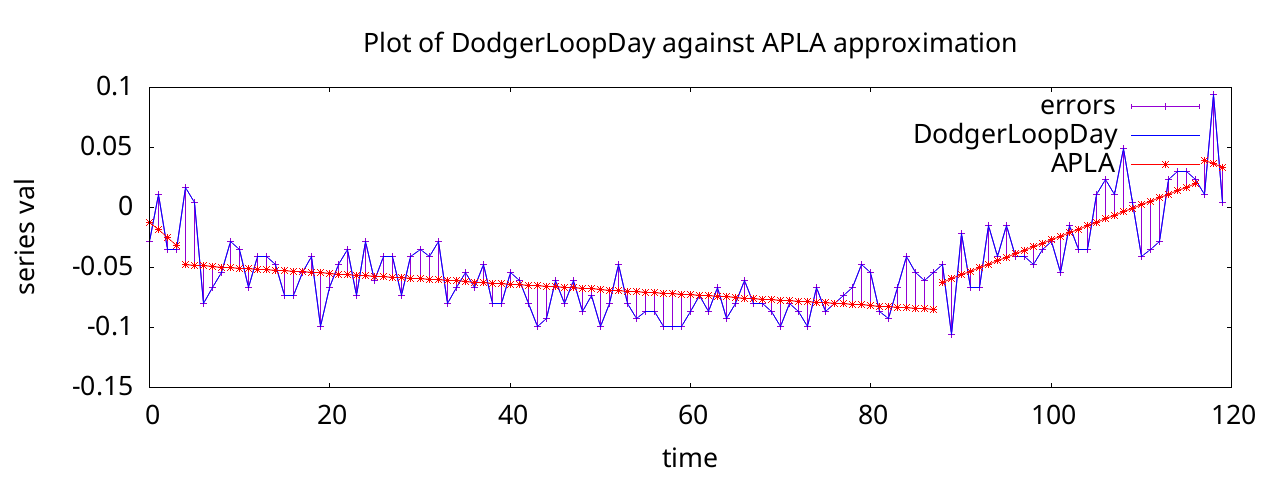
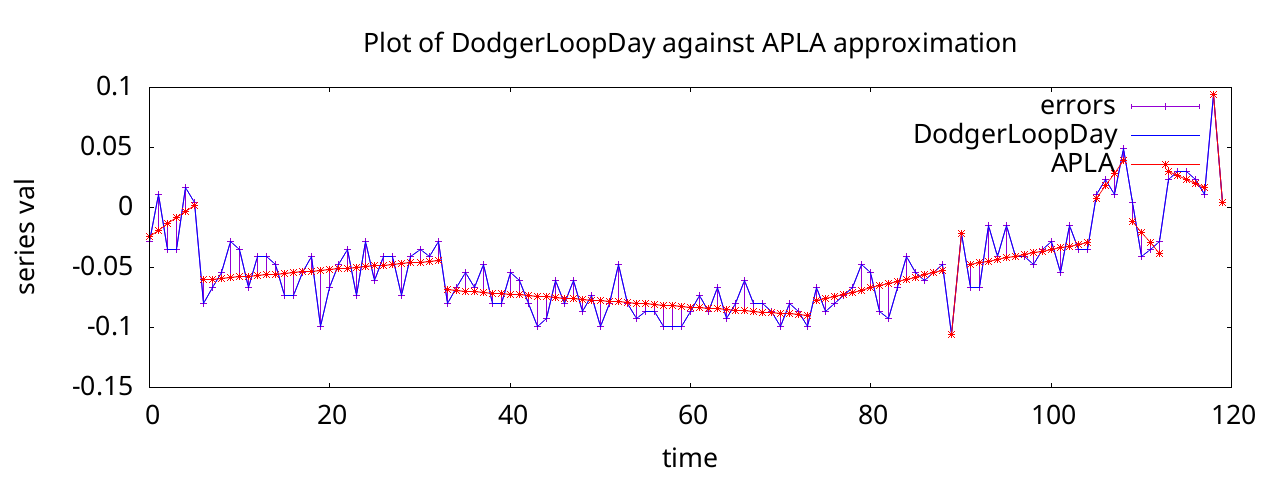
added the exact Dynamic Programming algorithm for comparison with my improvements

diff --git a/src/main.cpp b/src/main.cpp
@@ -3,16 +3,17 @@
 #include <vector>
 #include <algorithm>
 
-#include "double_window.h"
 #include "ucr_parsing.h"
-#include "paa.h"
-#include "pla.h"
-#include "dac_curve_fitting.h"
 #include "z_norm.h"
 #include "mse.h"
 
-#include "plotting/series_plotting.h"
+#include "paa.h"
+#include "pla.h"
+#include "double_window.h"
+#include "dac_curve_fitting.h"
+#include "exact_dp.h"
 
+#include "plotting/series_plotting.h"
 #include "plotting/plot_dimreduct_paa.cpp"
 #include "plotting/plot_dimreduct_pla.cpp"
 
@@ -40,14 +41,6 @@ int main()
   z_norm::z_normalise(dataset);
 
 
-  // plot_paa_mse(datasets, ucr_datasets_loc, 0, 10, 100);
-  // plot_pla_mse(datasets, ucr_datasets_loc, 0, 10, 100);
-
-  // plot_paa_subseq_series_comparison(dataset, datasets[di], 20, 0, 100);
-  // plot_pla_subseq_series_comparison(dataset, datasets[di], 20, 0, 100);
-  // plot_apaa_subseq_series_comparison(dataset, datasets[di], 0.00005, 0, 100);
-  // plot_apla_subseq_series_comparison(dataset, datasets[100], 0.00005, 0, 100);
-
   auto paa_f = [](const vector<double>& s, unsigned int num_params){ return paa::paa_to_seq(paa::paa(s, num_params), (s.size() / num_params) + (s.size() % num_params != 0)); };
   auto pla_f = [](const vector<double>& s, unsigned int num_params){ return pla::pla_to_seq(pla::pla(s, num_params), (2*s.size() / num_params) + (2*s.size() % num_params != 0)); };
 
@@ -57,72 +50,12 @@ int main()
   auto d_w_apla_f = [](const vector<double>& s, unsigned int num_params){ return pla::apla_to_seq( d_w::simple_pla(s, num_params, 5, 5)); };
   auto d_w_proj_apla_f = [](const vector<double>& s, unsigned int num_params){ return pla::apla_to_seq( d_w::y_proj_pla(s, num_params, 5, 5)); };
 
-  for (int i=3; i<=10; i++) {
-    vector<double> x;
-    for (int j=4; j<=4000; j+=100) x.push_back(j);
+  auto exact_apaa_f = [](const vector<double>& s, unsigned int num_params){ return paa::apca_to_seq( exact_dp::exact_paa(s, num_params) ); }; 
+  auto exact_apla_f = [](const vector<double>& s, unsigned int num_params){ return pla::apla_to_seq( exact_dp::exact_pla(s, num_params) ); }; 
 
-    vector<Line> lines;
-    vector<vector<double>> datasets_mse(6);
-    vector<double> dataset_i = parse_ucr_dataset(datasets[i], ucr_datasets_loc,  DatasetType::TRAIN);
-    for (int j=4; j<=4000; j+=100) {
-      datasets_mse[0].push_back( mse::maxdev_between_seq(dataset_i, paa_f(dataset_i, j)) );
-      datasets_mse[1].push_back( mse::maxdev_between_seq(dataset_i, pla_f(dataset_i, j)) );
-      datasets_mse[2].push_back( mse::maxdev_between_seq(dataset_i, d_w_apca_f(dataset_i, j)) );
-      datasets_mse[3].push_back( mse::maxdev_between_seq(dataset_i, d_w_proj_apca_f(dataset_i, j)) );
-      datasets_mse[4].push_back( mse::maxdev_between_seq(dataset_i, d_w_apla_f(dataset_i, j)) );
-      datasets_mse[5].push_back( mse::maxdev_between_seq(dataset_i, d_w_proj_apla_f(dataset_i, j)) );
-    }
-    lines.push_back( { x, datasets_mse[0], "paa" } );
-    lines.push_back( { x, datasets_mse[1], "pla" } );
-    lines.push_back( { x, datasets_mse[2], "sliding window paa" } );
-    lines.push_back( { x, datasets_mse[3], "sliding window intervals paa" } );
-    lines.push_back( { x, datasets_mse[4], "sliding window pla" } );
-    lines.push_back( { x, datasets_mse[5], "sliding window intervals pla" } );
-    PlotLabels pl = {"comparison of Maximum Deviation for DRT on dataset" + std::to_string(i), "number of parameters", "MaxDev error"};
-    plot_lines( lines, pl);
-  }
-
-  /*
-  dataset.resize(120);
-  plot_paa_subseq(dataset, datasets[di], 30, 0, 119);
-  plot_pla_subseq(dataset, datasets[di], 30, 0, 119);
-  std::cout << "PAA MSE: " 
-	    << mse::mse_between_seq(dataset,
-		paa::paa_to_seq(paa::paa(dataset, 30),4))
-	    << std::endl;
-  std::cout << "PLA MSE: " 
-	    << mse::mse_between_seq(dataset,
-		pla::pla_to_seq(pla::chunk_regression(dataset, 30),8))
-	    << std::endl;
-  */
-
-  /*
-  plot_any_apaa_subseq( dataset, datasets[di], [](const vector<double>& s){ return d_w::y_proj_paa(s, 30, 2,2); }, 0, 119);
-  plot_any_apla_subseq( dataset, datasets[di], [](const vector<double>& s){ return d_w::y_proj_pla(s, 30, 2,2); }, 0, 119);
-  std::cout << "APCA Y PROJECTION MSE: " 
-	    << mse::mse_between_seq(dataset,
-		paa::apca_to_seq(d_w::y_proj_paa(dataset, 30, 2, 2)))
-	    << std::endl;
-  std::cout << "APLA Y PROJECTION MSE: " 
-	    << mse::mse_between_seq(dataset,
-		pla::apla_to_seq(d_w::y_proj_pla(dataset, 30, 2, 2)))
-	    << std::endl;
-
-  */
-
-  /*
-  plot_any_apaa_subseq( dataset, datasets[di] + " for mean of window", [](const vector<double>& s){ return d_w::simple_paa(s, 30, 2,2); }, 0, 119);
-  plot_any_apla_subseq( dataset, datasets[di] + " for mean of window", [](const vector<double>& s){ return d_w::simple_pla(s, 30, 2,2); }, 0, 119);
-  std::cout << "APCA MEAN MSE: " 
-	    << mse::mse_between_seq(dataset,
-		paa::apca_to_seq(d_w::simple_paa(dataset, 30, 2, 2)))
-	    << std::endl;
-  std::cout << "APLA MEAN MSE: " 
-	    << mse::mse_between_seq(dataset,
-		pla::apla_to_seq(d_w::simple_pla(dataset, 30, 2, 2)))
-	    << std::endl;
-  */
-
-
+  //auto apaa = exact_dp::exact_paa(dataset, 30);
+  // plot_any_apaa_subseq( dataset, datasets[di], [](const vector<double>& s){ return exact_dp::exact_paa(s, 30); }, 0, 119);
+  plot_any_apla_subseq( dataset, datasets[di], [](const vector<double>& s){ return exact_dp::exact_pla(s, 30); }, 0, 119);
+  
   return 0;
 }

diff --git a/lib/dimension_reductions/exact_dp.cpp b/lib/dimension_reductions/exact_dp.cpp
@@ -1,0 +1,141 @@
+#include "exact_dp.h"
+
+#include <numeric>
+
+using std::vector;
+using std::tuple;
+
+
+inline double quick_mean(const double *const f1, const double *const f2)
+{
+  double a = 0;
+  for (int i=0; i<=f2-f1; i++) {
+    a += *(f1+i);
+  }
+  return a / double (f2 - f1 + 1);
+}
+inline double quick_se_with_mean( const double *const f1, const double *const f2, double mean)
+{
+  double se = 0;
+  for (int i=0; i<=f2-f1; i++) {
+    se += (*(f1+i) - mean) * (*(f1+i) - mean);
+  }
+  return se;
+}
+
+vector< tuple< double, unsigned int>> exact_dp::exact_paa( const vector<double>& s, unsigned int num_params)
+{
+  int num_segments = num_params/2;
+  vector< vector< double>> eps( s.size(), vector<double>(num_segments+1,-1.0) );
+  vector< vector< double>> lline( s.size(), vector<double>(num_segments+1) );
+  vector< vector< double>> first_i( s.size(), vector<double>(num_segments+1) );
+
+  for (int w=0; w<s.size(); w++) {
+    double mean = quick_mean( s.data(), s.data()+w);
+    lline[w][1] = mean;
+    eps[w][1] = quick_se_with_mean( s.data(), s.data()+w, mean);
+    first_i[w][1] = 0;
+  }
+
+  for (int t=2; t<=num_segments; t++) {
+    for (int w=t-1; w<s.size(); w++) {
+      for (int a=t-2; a<w; a++) {
+	double mean_of_remaining = quick_mean( s.data()+a+1, s.data()+w );
+	double err = quick_se_with_mean(s.data()+a+1, s.data()+w, mean_of_remaining) + eps[a][t-1];
+
+	if ( eps[w][t] == -1.0 || err < eps[w][t] ){
+	  lline[w][t] = mean_of_remaining;
+	  eps[w][t] = err;
+	  first_i[w][t] = a+1;
+	}
+
+      }
+    }
+  }
+
+  vector<tuple<double, unsigned int>> paa(num_segments);
+  int w = s.size()-1;
+  int segment = num_segments-1;
+  while (segment >= 0) {
+    paa[segment] = { lline[w][segment+1], w };
+    w = first_i[w][segment+1] - 1;
+    segment--;
+  }
+
+  return paa;
+}
+
+DoublePair regress(const double* const start, const double* const end)
+{
+  if (end-start<0) return {0.0, 0.0};  
+  if (end-start==0) return {*start, 0.0};
+  int size = end-start+1;
+
+  double x_mean = (size-1.0) / 2.0; 
+  double y_mean = std::accumulate(start, end+1, 0.0) / (double) size;
+
+  auto calc_residual = [&y_mean](double yi) { return yi - y_mean; };
+
+  double b=0;
+  double sqr_x_res=0;
+  for (int i=0; i<size; ++i) {
+    b += (i - x_mean) * calc_residual( *(start+i) );
+    sqr_x_res += (i-x_mean)*(i-x_mean);
+  }
+  b =  b / sqr_x_res;
+  double a = y_mean - b*x_mean;
+
+  return {a,b};
+}
+
+inline double quick_se_with_regress( const double *const f1, const double *const f2, const DoublePair& regressed)
+{
+  const auto& [a,b] = regressed;
+  double se = 0;
+  for (int i=0; i<=f2-f1; i++) {
+    se += (*(f1+i) - a - b*i) * (*(f1+i) - a - b*i);
+  }
+  return se;
+}
+
+vector< tuple< DoublePair, unsigned int>> exact_dp::exact_pla( const vector<double>& s, unsigned int num_params)
+{
+  int num_segments = num_params/3;
+  vector< vector< double>> eps( s.size(), vector<double>(num_segments+1,-1.0) );
+  vector< vector<DoublePair>> lline( s.size(), vector<DoublePair>(num_segments+1) );
+  vector< vector< double>> first_i( s.size(), vector<double>(num_segments+1) );
+
+  for (int w=0; w<s.size(); w++) {
+    DoublePair line = regress( s.data(), s.data()+w);
+    lline[w][1] = line;
+    eps[w][1] = quick_se_with_regress( s.data(), s.data()+w, line);
+    first_i[w][1] = 0;
+  }
+
+  for (int t=2; t<=num_segments; t++) {
+    for (int w=t-1; w<s.size(); w++) {
+      for (int a=t-2; a<w; a++) {
+	DoublePair line_of_remain = regress( s.data()+a+1, s.data()+w );
+	double err = quick_se_with_regress(s.data()+a+1, s.data()+w, line_of_remain) + eps[a][t-1];
+
+	if ( eps[w][t] == -1.0 || err < eps[w][t] ){
+	  lline[w][t] = line_of_remain;
+	  eps[w][t] = err;
+	  first_i[w][t] = a+1;
+	}
+
+      }
+    }
+  }
+
+  vector<tuple<DoublePair, unsigned int>> pla(num_segments);
+  int w = s.size()-1;
+  int segment = num_segments-1;
+  while (segment >= 0) {
+    pla[segment] = { lline[w][segment+1], w };
+    w = first_i[w][segment+1] - 1;
+    segment--;
+  }
+
+  return pla;
+}

diff --git a/src/plotting/plot_dimreduct_pla.cpp b/src/plotting/plot_dimreduct_pla.cpp
@@ -177,10 +177,10 @@ void plot_any_apla_subseq(const vector<double>& series, std::string data_name
 
   Gnuplot gp;
   using namespace gp_constants;
-  //gp << "set terminal " << GNUPLOT_TERMINAL << "\n";
-  //gp << "set term " << GNUPLOT_TERMINAL <<" size " << GNUPLOT_SIZE_X << " " << GNUPLOT_SIZE_Y << "\n";
-  gp << "set term png size 1280 640 background 'white' enhanced font size 20 \n";
-  gp << "set output 'img/drt_comparisons/"<<data_name<<"_apla_subseq.png' \n";
+  gp << "set terminal " << GNUPLOT_TERMINAL << "\n";
+  gp << "set term " << GNUPLOT_TERMINAL <<" size " << GNUPLOT_SIZE_X << " " << GNUPLOT_SIZE_Y << "\n";
+  // gp << "set term png size 1280 640 background 'white' enhanced font size 20 \n";
+  // gp << "set output 'img/drt_comparisons/"<<data_name<<"_apla_subseq.png' \n";
   gp << "set xlabel 'time'\n";
   gp << "set ylabel 'series val'\n";
   gp << "set title 'Plot of "<<data_name<<" against APLA approximation'\n";

diff --git a/lib/dimension_reductions/exact_dp.h b/lib/dimension_reductions/exact_dp.h
@@ -1,0 +1,15 @@
+#ifndef EXACT_H
+#define EXACT_H
+
+#include <vector>
+#include <tuple>
+
+#include "pla.h"
+
+namespace exact_dp { 
+std::vector< std::tuple< double, unsigned int> > exact_paa( const std::vector<double>&, unsigned int num_params);
+std::vector< std::tuple< DoublePair, unsigned int> > exact_pla( const std::vector<double>&, unsigned int num_params);
+};
+
+#endif
+
